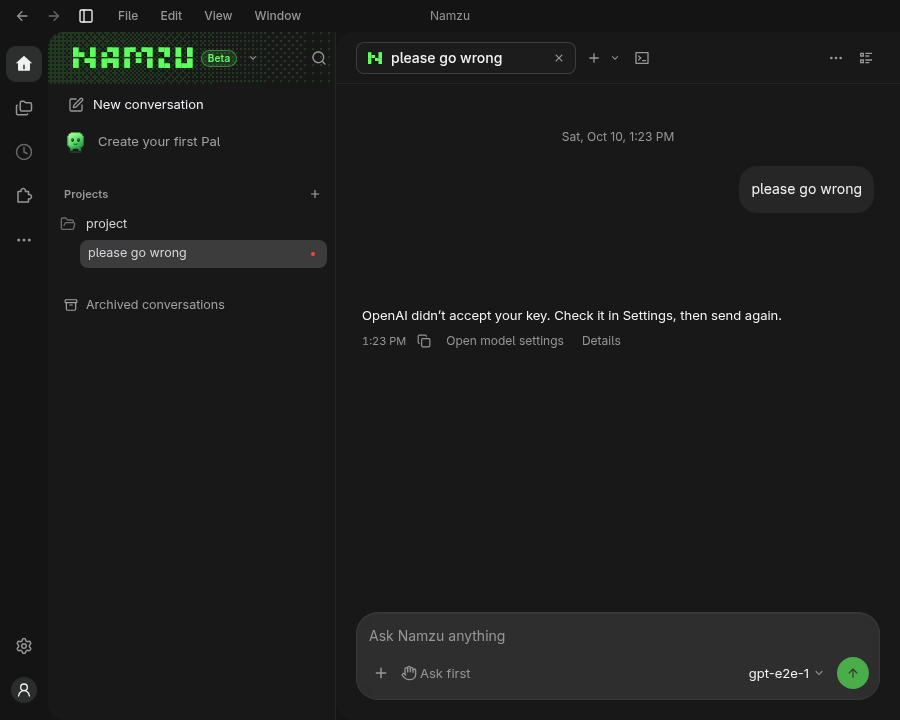
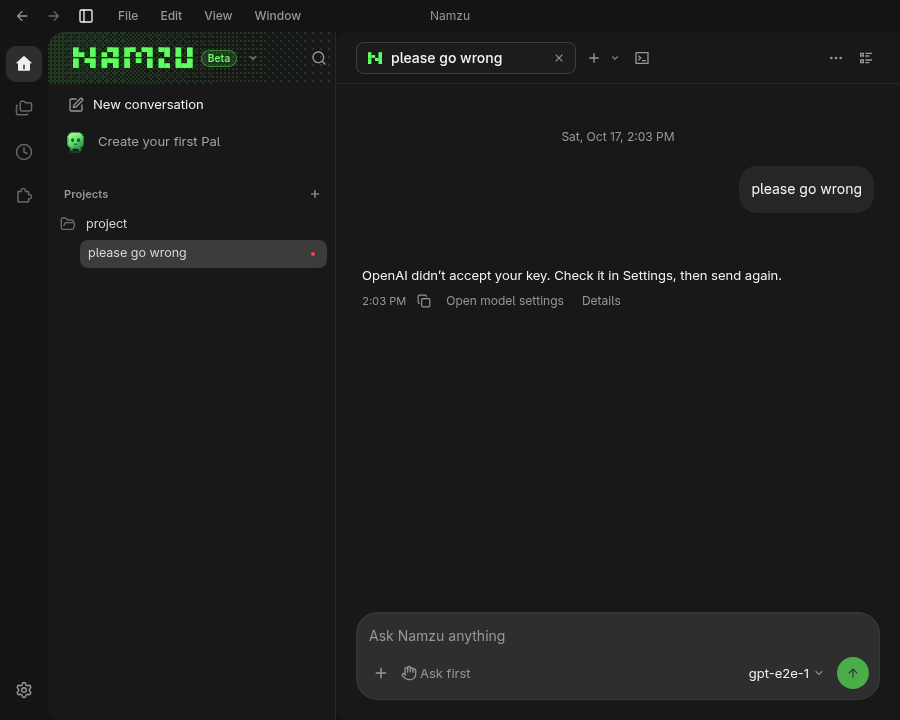
fix(desktop): put a stopped reply directly under its work, with one clock
A reply that ended without answer text drew a turn clock at the bottom of its
turn, a footer row kept empty until hover. When that reply had stopped, the
recovery row under the transcript carried its own time, so the reader saw an
empty line between "Work incomplete" and the sentence, and a second time on
hover. The recovery row's time was also the person's message time, not when
the work ended.

The latest turn now leaves its clock to the recovery row whenever that row is
drawn, and the row shows when the work ended (turnEndTime). Earlier turns keep
their clocks. The failed-reply e2e asserts no turn clock and measures the stop
right under the work row; both cases fail without this change.

diff --git a/packages/desktop/src/renderer/transcript.tsx b/packages/desktop/src/renderer/transcript.tsx
@@ -629,6 +629,8 @@ interface TurnGroupProps {
 	planTurn?: number
 	/** Opens the full task list; the same function for the life of the transcript. */
 	onOpenTasks?: () => void
+	/** The stop row under the transcript carries this turn's time, so the turn draws no clock of its own. */
+	clockShownBelow: boolean
 }
 
 function shallowEqual(a: object | undefined, b: object | undefined): boolean {
@@ -668,6 +670,7 @@ const TurnGroupView = memo(function TurnGroupView({
 	projectRoot,
 	planTurn,
 	onOpenTasks,
+	clockShownBelow,
 }: TurnGroupProps) {
 	const actionsValue = useMemo<ActivityActions>(
 		() => ({ changes, projectRoot, onOpenTurnChanges, onOpenChangedFile }),
@@ -746,7 +749,7 @@ const TurnGroupView = memo(function TurnGroupView({
 						))}
 					</Fragment>
 				))}
-				{clock?.at === 'turn' && (
+				{clock?.at === 'turn' && !clockShownBelow && (
 					<Message from="assistant" className="message assistant turn-clock">
 						<MessageFooter time={clock.time} focusable />
 					</Message>
@@ -784,6 +787,7 @@ function turnGroupPropsEqual(previous: TurnGroupProps, next: TurnGroupProps): bo
 		previous.onUndoTurn !== next.onUndoTurn ||
 		previous.planTurn !== next.planTurn ||
 		previous.onOpenTasks !== next.onOpenTasks ||
+		previous.clockShownBelow !== next.clockShownBelow ||
 		!shallowEqual(previous.separators, next.separators)
 	)
 		return false
@@ -810,6 +814,7 @@ export function Transcript({
 	undoKept,
 	projectRoot,
 	closedWhileRunning = false,
+	stopShownBelow = false,
 	dateSeparators = true,
 }: {
 	thread: ThreadState
@@ -833,6 +838,11 @@ export function Transcript({
 	projectRoot?: string
 	/** The window was closed while the latest reply ran, which is why it stopped. */
 	closedWhileRunning?: boolean
+	/**
+	 * The latest reply's stop is drawn under the transcript with its own time and actions. Its turn
+	 * then draws no clock of its own: a second time row would only open a gap above the stop.
+	 */
+	stopShownBelow?: boolean
 	dateSeparators?: boolean
 }) {
 	const ref = useRef<HTMLDivElement>(null)
@@ -952,6 +962,7 @@ export function Transcript({
 						onUndoTurn={onUndoTurn ? stable.onUndoTurn : undefined}
 						planTurn={planTurn}
 						onOpenTasks={onOpenTasks ? stable.onOpenTasks : undefined}
+						clockShownBelow={stopShownBelow && !live && group.turn === thread.turn}
 					/>
 				)
 			})}

diff --git a/packages/desktop/src/renderer/app.tsx b/packages/desktop/src/renderer/app.tsx
@@ -243,6 +243,7 @@ import { openTerminalFind, terminalApi, terminalSessions } from './terminal-regi
 import { engineTerminalRequest, shellTerminalRequest } from './terminal-request.js'
 import type { ThreadRowActions } from './thread-card.js'
 import { PaneToasts } from './toast.js'
+import { turnEndTime } from './transcript-layout.js'
 import { Transcript } from './transcript.js'
 import { TurnRecovery, recoveryKey } from './turn-recovery.js'
 import { Button } from './ui/button.js'
@@ -4845,6 +4846,10 @@ export function App({
 			thread.retry.original.model !== selectedModelId)
 			? selectedModelId
 			: undefined
+	// The stop row below the transcript draws whenever it has a failure to say or a retry to offer, and
+	// carries the time the reply stopped; the reply's own turn then draws no second clock above it.
+	const stopShownBelow = replyFailures.length > 0 || Boolean(api.retryTurn && thread.retry)
+	const stopTime = turnEndTime(thread, thread.turn) ?? thread.messages.at(-1)?.time
 	const putMessageBack = (text: string) => {
 		draftsRef.current[sessionId] = text
 		setDrafts((all) => ({ ...all, [sessionId]: text }))
@@ -6856,6 +6861,7 @@ export function App({
 														undoKept={undoKept}
 														projectRoot={project?.path}
 														closedWhileRunning={conversation?.closedWhileRunning === true}
+														stopShownBelow={stopShownBelow}
 														renderMessageAction={(message, key) => (
 															<MessageActions
 																text={message.text}
@@ -6882,7 +6888,7 @@ export function App({
 										retry={thread.retry}
 										model={retryModel}
 										failures={replyFailures}
-										time={thread.messages.at(-1)?.time}
+										time={stopTime}
 										onAction={(action) => {
 											if (action === 'settings') openSettings('models', 'models')
 											else if (action === 'continue') void act(continueWithoutReply)

diff --git a/packages/desktop/src/renderer/transcript-layout.ts b/packages/desktop/src/renderer/transcript-layout.ts
@@ -412,6 +412,18 @@ function knownTime(time: ChatMessage['time']): time is NonNullable<ChatMessage['
 	return !!time && Number.isFinite(time.at) && time.at >= 0
 }
 
+/** When a turn's work ended, as the host recorded it; undefined while it runs or when unrecorded. */
+export function turnEndTime(
+	thread: ThreadState,
+	turn: number,
+): NonNullable<ChatMessage['time']> | undefined {
+	const timing = thread.turns[turn]
+	if (knownTime(timing?.endedTime)) return timing.endedTime
+	if (timing?.endedAt !== undefined && knownTime({ at: timing.endedAt, source: 'host' }))
+		return { at: timing.endedAt, source: 'host' }
+	return undefined
+}
+
 /**
  * The one clock a reply shows, at its bottom: the last answer message's time, or, when the reply
  * ends without answer text (stopped, failed, only actions), the time its work ended. Nothing while
@@ -433,10 +445,8 @@ export function replyClock(
 		if (knownTime(message.time)) return { at: 'answer', entry, time: message.time }
 		break
 	}
-	const timing = thread.turns[group.turn]
-	if (knownTime(timing?.endedTime)) return { at: 'turn', time: timing.endedTime }
-	if (timing?.endedAt !== undefined && knownTime({ at: timing.endedAt, source: 'host' }))
-		return { at: 'turn', time: { at: timing.endedAt, source: 'host' } }
+	const ended = turnEndTime(thread, group.turn)
+	if (ended) return { at: 'turn', time: ended }
 	let last: NonNullable<ChatMessage['time']> | undefined
 	for (const entry of group.activity) {
 		const time =

diff --git a/packages/desktop/src/renderer/worked-block.test.ts b/packages/desktop/src/renderer/worked-block.test.ts
@@ -134,6 +134,26 @@ describe('the Worked block draws no clocks of its own', () => {
 		expect(html).toContain('turn-clock')
 		expect(html.lastIndexOf('class="message-time"')).toBeGreaterThan(html.indexOf('turn-clock'))
 	})
+	it('leaves the clock to the stop row when the reply stopped and that row is drawn below', () => {
+		const stopped = finish(worked())
+		const html = renderToStaticMarkup(
+			createElement(Transcript, { thread: stopped, stopShownBelow: true }),
+		)
+		// Only the person's own message keeps a clock; no empty time row opens a gap above the stop.
+		expect(clocks(html)).toBe(1)
+		expect(html).not.toContain('turn-clock')
+		expect(html).toContain('data-activity-turn')
+	})
+	it('keeps the clock of an earlier turn that ended without answer text', () => {
+		let thread = applyEvent(
+			applyEvent(finish(worked()), { kind: 'prompt', sessionId: 's', prompt: 'Again', at: 10000 }),
+			{ kind: 'state', sessionId: 's', running: true, queued: [] },
+		)
+		thread = finish(answer(thread, 'Done now.', 12000), 13000)
+		const html = renderToStaticMarkup(createElement(Transcript, { thread, stopShownBelow: true }))
+		// The first turn's clock stays; the stop row only ever speaks for the latest reply.
+		expect(html).toContain('turn-clock')
+	})
 	it('shows no clock and an open block while the work is going', () => {
 		const html = render(worked())
 		expect(clocks(html)).toBe(1)

diff --git a/docs/cli/desktop.md b/docs/cli/desktop.md
@@ -886,8 +886,8 @@ removed, key-shaped text hidden, at most 500 characters): `src/renderer/friendly
 | Context window | This conversation is too long for the model… | Start a new conversation |
 | No key | There is no API key for Anthropic. Add one in Settings, then send again. | Open model settings |
 
-The sentence is followed by the same quiet row a settled reply ends with
-(`MessageActions`, `turn-recovery.tsx`): the time first, as a settled reply shows it, then **Retry** and **Copy** as icon buttons (Retry reads "Retry
+The sentence sits directly under the reply's work and is followed by the same quiet row a settled reply ends with
+(`MessageActions`, `turn-recovery.tsx`): the time first (when the reply stopped; the turn above draws no second clock), then **Retry** and **Copy** as icon buttons (Retry reads "Retry
 with *model*" when the model selected now is not the one that stopped), then any other way on as small muted text (**Open
 model settings**, **Continue without this reply**, **Copy to a new conversation**, **Start a new
 conversation**), then **Details** as a text toggle with no leading symbol (`aria-expanded`). Details start closed for every failure
@@ -2594,7 +2594,9 @@ nothing inside it draws a clock: not the narration, thoughts, action rows, run
 summaries or the heading. Each row keeps its full time in its tooltip and accessible
 description ("Received at ...", or "Sent at ..." on the person's own message). A reply shows one clock, under its answer in the
 footer row, or, when it ends without answer text (stopped, failed, only actions), at
-the bottom of the turn; none while it is still being written. The answer appears below that group only when it is
+the bottom of the turn; none while it is still being written. When the latest reply stopped
+and the row under the transcript says so, that row carries the clock (the time the work
+ended) and the turn draws none of its own, so the stop sits directly under the work. The answer appears below that group only when it is
 a trailing answer; grouping never moves text across a later tool or reasoning event.
 Message and text-part identities preserve distinct responses. Providers without
 phase metadata retain their admitted order without invented commentary labels.

diff --git a/docs/log.md b/docs/log.md
@@ -1,5 +1,9 @@
 # Documentation update log
 
+## 2026-10-17
+
+- **Update** [Desktop](cli/desktop.md#what-a-failed-reply-says): a reply that stopped puts its sentence directly under its work. The row under the transcript carries the reply's clock: the time the work ended, where it used to show the person's message time. Before, the turn also drew its own clock row, hidden until hover, which left an empty line and a second time between the work and the stop. Covered by `e2e/ux-failed-reply-row.test.mjs` (`.changeset/desktop-failed-turn-clock.md`, patch).
+
 ## 2026-10-16
 
 - **Creation** [Decision models](sdk/decision.md): new `@namzu/decision` leaf package — a provider-agnostic System-1 decision interface (yes/no, choice, score) with an Azure AI Foundry Microsoft-Decision-1 driver. `.changeset/decision-package.md`, **minor** for `@namzu/decision`.

diff --git a/.changeset/desktop-failed-turn-clock.md b/.changeset/desktop-failed-turn-clock.md
@@ -1,0 +1,5 @@
+---
+'@namzu/desktop': patch
+---
+
+A reply that stopped now shows its sentence directly under its work, with one time: when the work ended. Before, an empty hover-only time row sat between the work and the sentence, and the sentence's row showed the time of the person's message instead.
